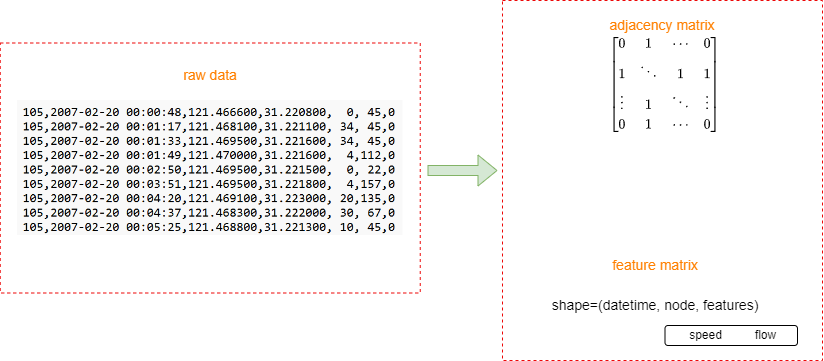
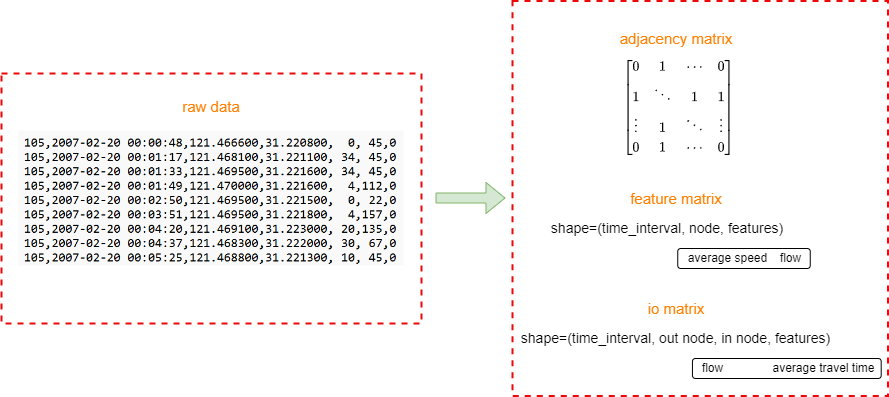
change to grid cell nodes

diff --git a/gps2graph.py b/gps2graph.py
@@ -1,19 +1,17 @@
-'''
+"""
 Author: Zhengke Sun
-Date: 2023/3/18
+Update: 2023/3/28
 Contact: zhengkesun@outlook.com
-'''
+"""
 from PyQt5.QtWidgets import QApplication, QMainWindow, QPushButton, \
     QFileDialog, QDesktopWidget, QMessageBox, QTextEdit
 from PyQt5 import QtGui
 import sys
-import datetime
-import numpy as np
-from sklearn.cluster import KMeans
 import pandas as pd
-from scipy.spatial.distance import cdist
-from einops import rearrange
 from tqdm import tqdm
+from methods.gridio import grid_io
+from utils import cal_speed
+
 
 class MainWindow(QMainWindow):
     def __init__(self):
@@ -45,14 +43,15 @@ class MainWindow(QMainWindow):
         self.textbox.setUndoRedoEnabled(True)
         self.textbox.setLineWrapMode(QTextEdit.WidgetWidth)
 
-        self.textbox.resize(800, 200)
-        self.textbox.setPlaceholderText("Please enter the column titles\n"
-                                        "Default: 'id', 'datetime','longitude', 'latitude', 'speed', 'angle', 'status'\n"
-                                        "At least: 'id', 'datetime', 'longitude', and 'latitude'")
-        self.textbox.setText("'id', 'datetime', 'longitude', 'latitude', 'speed', 'angle', 'status'")
+        self.textbox.resize(850, 200)
+        self.textbox.setPlaceholderText("Enter column titles, the side length number of grid cells, io interval\n"
+                                        "Default: 'id', 'datetime', 'longitude', 'latitude', "
+                                        "'speed', 'angle', 'status', '10', '3'\n"
+                                        "At least: 'id', 'datetime', 'longitude', 'latitude', '10', '3'")
+        # self.textbox.setText("'id', 'datetime', 'longitude', 'latitude', 'speed', 'angle', 'status', '10', '3'")
         font2 = QtGui.QFont('Arial', 12)
         self.textbox.setFont(font2)
-        text_width = 800
+        text_width = 850
         text_height = 300
         self.textbox.move(int((window_width - text_width) / 2), int((window_height - text_height) / 2) - 100)
 
@@ -63,124 +62,60 @@ class MainWindow(QMainWindow):
         qr.moveCenter(cp)
         self.move(qr.topLeft())
 
-    # Calculate speed(if necessary)
-    def cal_speed(self, df):
-        time_diff = df['datetime'].diff().dt.total_seconds().fillna(0)
-        distance_diff = np.sqrt(((df['latitude'].diff() * 111320) ** 2) + ((df['longitude'].diff() * 111320) ** 2)).fillna(0)
-        df['speed'] = distance_diff / time_diff
-        df.replace([np.inf, -np.inf], np.nan, inplace=True)
-        df.dropna(inplace=True)
-        return df
-
     def upload_file(self):
         file_filter = "CSV files (*.csv);;Text files (*.txt);;All files (**)"
         options = QFileDialog.Options()
         options |= QFileDialog.DontUseNativeDialog
         file_names, _ = QFileDialog.getOpenFileNames(self, "choose GPS trajectory files", "",
-                                                    file_filter, options=options)
+                                                     file_filter, options=options)
 
         if file_names:
             # Split text
             input_text = self.textbox.toPlainText()
+            if input_text == '':
+                input_text = "'id', 'datetime', 'longitude', 'latitude', 'speed', 'angle', 'status', '10', '3'"
             input_text = input_text.replace("'", "")
             elements = input_text.split(", ")
             output_list = [element.strip() for element in elements]
+            blocks_num = int(output_list[-2])
+            io_interval = int(output_list[-1])
+            output_list = output_list[0:-2]
             # If data need to calculate speed
             get_speed = False
             if 'speed' not in output_list:
                 get_speed = True
-            ## Get adjacency matrix
+            # Get full data
             df = pd.DataFrame()
-            for file in file_names:
+            print('Processing data')
+            for file in tqdm(file_names):
                 df_temp = pd.read_csv(file, names=output_list)
                 df_temp['datetime'] = pd.to_datetime(df_temp['datetime'])
-                if get_speed == True:
-                    df_temp = self.cal_speed(df_temp)
+                if get_speed is True:
+                    df_temp = cal_speed(df_temp)
                 df = pd.concat([df, df_temp], axis=0)
 
-            # Clustering
-            kmeans = KMeans(n_clusters=50)
-            kmeans.fit(df[['longitude', 'latitude']])
-            centroids = kmeans.cluster_centers_
-            df['label'] = kmeans.predict(df[['longitude', 'latitude']])
+            # [Start]select the methods
+            grid_io(df, blocks_num=blocks_num, io_interval=io_interval)
 
-            # Main nodes
-            main_nodes = []
-            for i in range(len(centroids)):
-                main_nodes.append({'id': i, 'longitude': centroids[i][0], 'latitude': centroids[i][1]})
-
-            # Distance
-            dist_matrix = cdist(centroids, centroids, 'euclidean') * 111.32
-            threshold = 20.0
-            adjacency_matrix = np.zeros((len(centroids), len(centroids)), dtype=int)
-            for i in range(len(centroids)):
-                for j in range(len(centroids)):
-                    if i == j:
-                        adjacency_matrix[i, j] = 0
-                    elif dist_matrix[i, j] < threshold:
-                        adjacency_matrix[i, j] = 1
-                    else:
-                        adjacency_matrix[i, j] = 0
-
-            # Save adjacency matrix
-            adjacency_matrix = pd.DataFrame(adjacency_matrix)
-            adjacency_matrix.to_csv('./saved_files/adjacency_matrix.csv', header=False, index=False)
-
-            ## Get feature matrix
-            time_interval = datetime.timedelta(minutes=5)
-            df = df.sort_values(by=['datetime'])
-            groups = df.groupby(pd.Grouper(key='datetime', freq=time_interval))
-            speeds = []
-            flows = []
-
-            # Nodes
-            for i in tqdm(range(len(main_nodes))):
-                node_speeds = []
-                node_flows = []
-
-                # Time and Labels
-                for name, group in groups:
-                    group = group[group['label'] == i]
-                    count = len(group)
-                    if count > 0:
-                        speed = group['speed'].mean()
-                        node_speeds.append(speed)
-                        node_flows.append(count)
-                    else:
-                        node_speeds.append(0)
-                        node_flows.append(0)
-
-                speeds.append(node_speeds)
-                flows.append(node_flows)
-
-            speeds = np.array(speeds)
-            flows = np.array(flows)
-
-            speeds = rearrange(speeds, 'n t -> t n 1')
-            flows = rearrange(flows, 'n t -> t n 1')
-            feature_matrix = np.concatenate([speeds, flows], axis=2)
-            np.save('./saved_files/feature_matrix.npy', feature_matrix)
+            # [End]select the methods
 
             success = True
         else:
             success = False
 
         if success:
-
             QMessageBox.information(self,
                                     "Finished",
-                                    "The adjacency matrix has been saved to adjacency_matrix.csv, "
-                                    "the feature matrix has been saved to feature_matrix.npy",
+                                    "The results have been saved!",
                                     buttons=QMessageBox.Ok)
         else:
-
             QMessageBox.information(self,
                                     "Unfinished",
-                                    "Please upload files",
+                                    "Please upload files and choose methods",
                                     buttons=QMessageBox.Ok)
 
-if __name__ == '__main__':
 
+if __name__ == '__main__':
     app = QApplication(sys.argv)
     window = MainWindow()
     window.show()

diff --git a/methods/gridio.py b/methods/gridio.py
@@ -1,0 +1,117 @@
+import datetime
+import numpy as np
+import pandas as pd
+from tqdm import tqdm
+
+
+def grid_io(df, blocks_num=10, io_interval=2):
+    # clean data
+    df.dropna(inplace=True)
+    df = df[(df['speed'] >= 0) & (df['speed'] <= 150)]
+    df = df[(df['longitude'] >= -180) & (df['longitude'] <= 180) & (df['latitude'] >= -90) & (df['latitude'] <= 90)]
+    df.drop_duplicates(subset=['id', 'datetime'], keep='first', inplace=True)
+    df = df.sort_values(by=['id', 'datetime'])
+    # drop speed error data
+    speed_error_mask = (df['id'] == df['id'].shift(1)) & (df['longitude'] == df['longitude'].shift(1)) & \
+                       (df['latitude'] == df['latitude'].shift(1)) & (df['speed'] != 0)
+    df = df[~speed_error_mask]
+    df.reset_index(drop=True, inplace=True)
+
+    # get the boundary
+    min_lng, max_lng = df['longitude'].min(), df['longitude'].max()
+    min_lat, max_lat = df['latitude'].min(), df['latitude'].max()
+
+    # separate blocks
+    n = blocks_num
+    step_lng = (max_lng - min_lng) / n
+    step_lat = (max_lat - min_lat) / n
+    lng_list = np.arange(min_lng, max_lng + 1e-5, step_lng)
+    lat_list = np.arange(min_lat, max_lat + 1e-5, step_lat)
+    lat_list[-1] = lat_list[-1] + 1e-5
+    lng_list[-1] = lng_list[-1] + 1e-5
+    block_ranges = []
+    for i in range(len(lat_list) - 1):
+        for j in range(len(lng_list) - 1):
+            block_ranges.append({'min_lng': lng_list[j], 'max_lng': lng_list[j + 1],
+                                 'min_lat': lat_list[i], 'max_lat': lat_list[i + 1]})
+
+    # separate time
+    time_interval = datetime.timedelta(minutes=5)
+    df = df.sort_values(by=['datetime'])
+    time_groups = df.groupby(pd.Grouper(key='datetime', freq=time_interval))
+
+    # calculate feature matrix
+    feature_matrix = np.zeros(shape=(len(time_groups), len(block_ranges), 2))
+    print('\nCalculating feature matrix')
+    for i, (name, group) in tqdm(enumerate(time_groups)):
+        group = group.reset_index(drop=True)
+        for j, block in enumerate(block_ranges):
+
+            block_mask = (group['longitude'] >= block['min_lng']) & (group['longitude'] < block['max_lng']) & \
+                         (group['latitude'] >= block['min_lat']) & (group['latitude'] < block['max_lat'])
+            group_block = group.loc[block_mask]
+            num_taxis = len(group_block.groupby('id'))
+
+            if num_taxis > 0:
+                avg_speed = group_block['speed'].mean()
+            else:
+                avg_speed = 0
+            feature_matrix[i, j, :] = [num_taxis, avg_speed]
+
+    # save feature matrix
+    print(feature_matrix.shape)
+    np.save('./saved_files/feature_matrix_gi.npy', feature_matrix)
+    print('feature matrix has been saved')
+
+    # calculate in-out matrix
+    io_time_interval = datetime.timedelta(hours=io_interval)
+    df_io = df.copy()
+    df_io = df_io.sort_values(by=['datetime'])
+    io_time_groups = df_io.groupby(pd.Grouper(key='datetime', freq=io_time_interval))
+
+    io_matrix = np.zeros(shape=(len(io_time_groups), len(block_ranges), len(block_ranges), 2))
+    print('\nCalculating in-out matrix')
+    for t, (name, group) in tqdm(enumerate(io_time_groups)):
+        for taxi_id, taxi_df in group.groupby('id'):
+
+            taxi_df.reset_index(drop=True, inplace=True)
+            lat_bins = np.digitize(taxi_df['latitude'], lat_list)
+            lng_bins = np.digitize(taxi_df['longitude'], lng_list)
+            block_trace = np.array((lat_bins - 1) * n + (lng_bins - 1))
+
+            block_first_index = {f'{block_trace[0]}': 0}
+            for i in range(len(block_trace) - 1):
+                if block_trace[i] != block_trace[i + 1]:
+                    block_first_index[f'{block_trace[i + 1]}'] = i + 1
+                    start_block, end_block = block_trace[i], block_trace[i + 1]
+                    io_matrix[t][start_block][end_block][0] += 1
+                    io_matrix[t][start_block][end_block][1] += \
+                        (taxi_df['datetime'].iloc[block_first_index[f'{block_trace[i + 1]}']] -
+                         taxi_df['datetime'].iloc[block_first_index[f'{block_trace[i]}']]).seconds / 60
+
+    io_matrix[:, :, :, 1] = io_matrix[:, :, :, 1] / (io_matrix[:, :, :, 0] + 1e-6)
+
+    # save in-out matrix
+    print(io_matrix.shape)
+    np.save('./saved_files/io_matrix_gi.npy', io_matrix)
+    print('io matrix has been saved')
+
+    # get adjacency matrix
+    adjacency_matrix = np.zeros((n ** 2, n ** 2))
+    neighbors = []
+    print('\nCalculating adjacency matrix')
+    for i in tqdm(range(n)):
+        for j in range(n):
+            neighbor_ids = [(i + x, j + y) for x in [-1, 0, 1] for y in [-1, 0, 1] if
+                            (0 <= i + x < n and 0 <= j + y < n)]
+            neighbor_ids.remove((i, j))
+            neighbor_ids = [idx[0] * n + idx[1] for idx in neighbor_ids]
+            neighbors.append(neighbor_ids)
+    dist = pd.DataFrame({"neighbors": neighbors})
+    for i, row in dist.iterrows():
+        adjacency_matrix[i, row["neighbors"]] = 1
+
+    # save adjacency matrix
+    adjacency_matrix = pd.DataFrame(adjacency_matrix)
+    adjacency_matrix.to_csv('./saved_files/adjacency_matrix.csv', header=False)
+    print('adjacency matrix has been saved')

diff --git a/utils.py b/utils.py
@@ -1,0 +1,11 @@
+import numpy as np
+
+# Calculate speed(if necessary)
+def cal_speed(df):
+    time_diff = df['datetime'].diff().dt.total_seconds().fillna(0)
+    distance_diff = np.sqrt(((df['latitude'].diff() * 111320) ** 2) + ((df['longitude'].diff() * 111320) ** 2)).fillna \
+        (0)
+    df['speed'] = distance_diff / time_diff
+    df.replace([np.inf, -np.inf], np.nan, inplace=True)
+    df.dropna(inplace=True)
+    return df

diff --git a/saved_files/readme.md b/saved_files/readme.md
@@ -1,0 +1,1 @@
+The results will be saved here.
